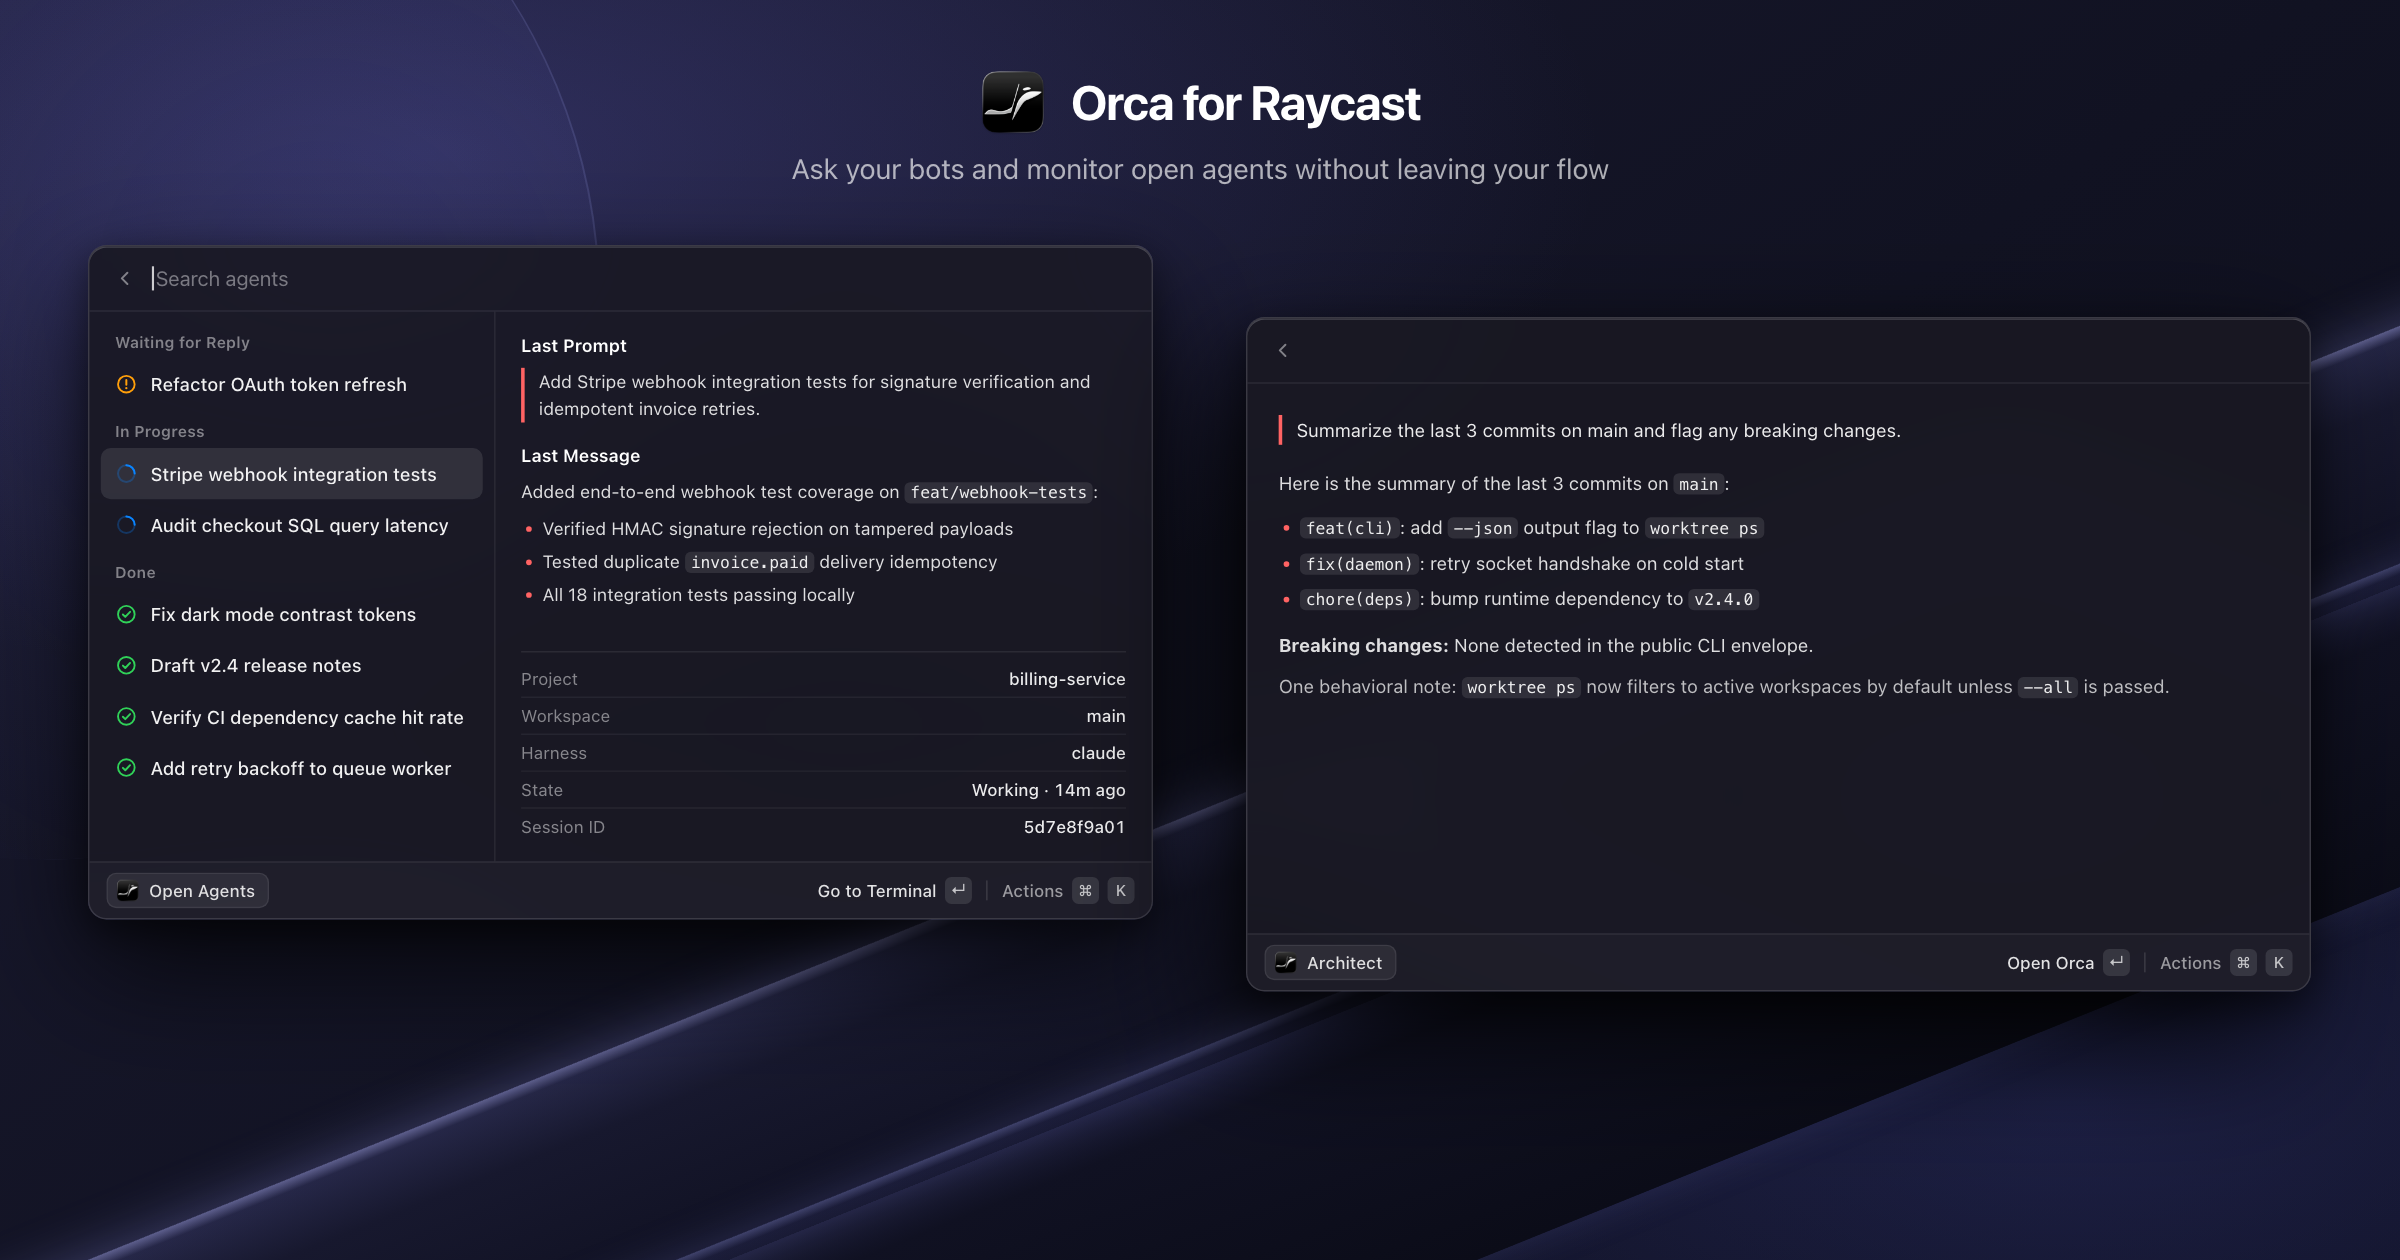
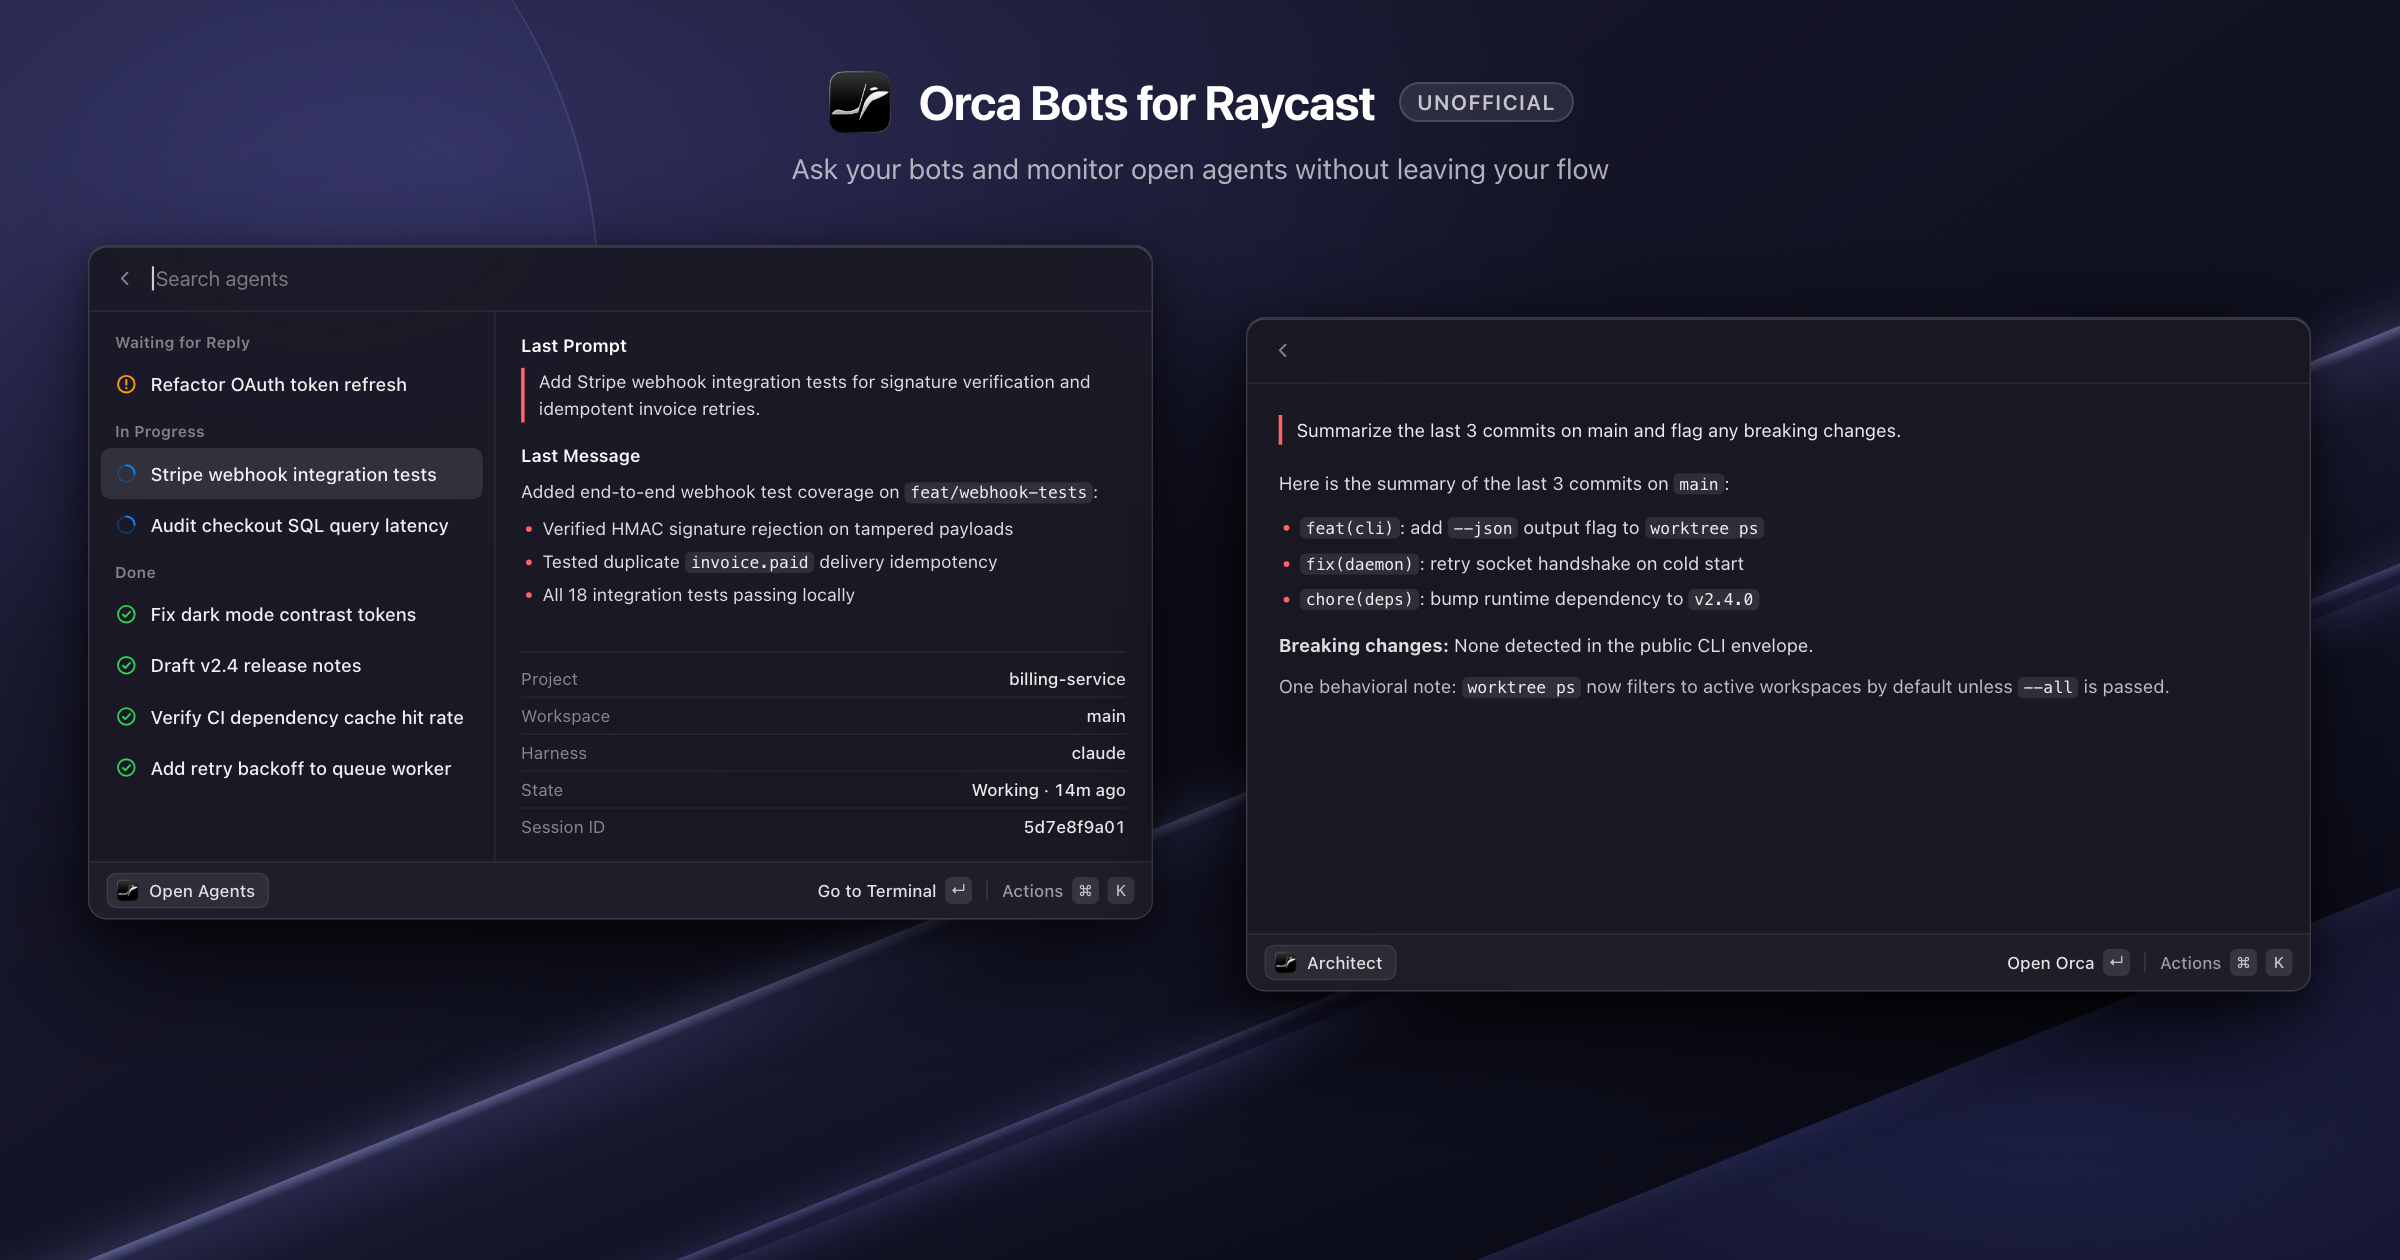
chore: rename extension to Orca Bots and mark as unofficial

Changed region(s): [[0.3438, 0.0619, 0.6562, 0.1238]]

diff --git a/README.md b/README.md
@@ -1,12 +1,14 @@
-# Orca for Raycast
+# Orca Bots for Raycast
 
-![Orca for Raycast](./media/cover.png)
+![Orca Bots for Raycast](./media/cover.png)
 
 Control Orca from Raycast without leaving what you are doing. The extension calls the `orca` CLI so Orca stays in the background, except when you trigger **Go to Terminal**, **Open Orca**, or **Launch Orca**.
 
+> **Unofficial and community-maintained. Not affiliated with, endorsed by or supported by Stably, the makers of Orca.**
+
 ## Requirements
 
-- macOS with Raycast and Orca (`Orca.app`) installed.
+- macOS with Raycast and Orca (&gt;= 1.4.269) installed.
 
 ## Commands
 

diff --git a/CHANGELOG.md b/CHANGELOG.md
@@ -1,4 +1,4 @@
-# Orca Changelog
+# Orca Bots Changelog
 
 ## [Initial Version] - {PR_MERGE_DATE}
 
